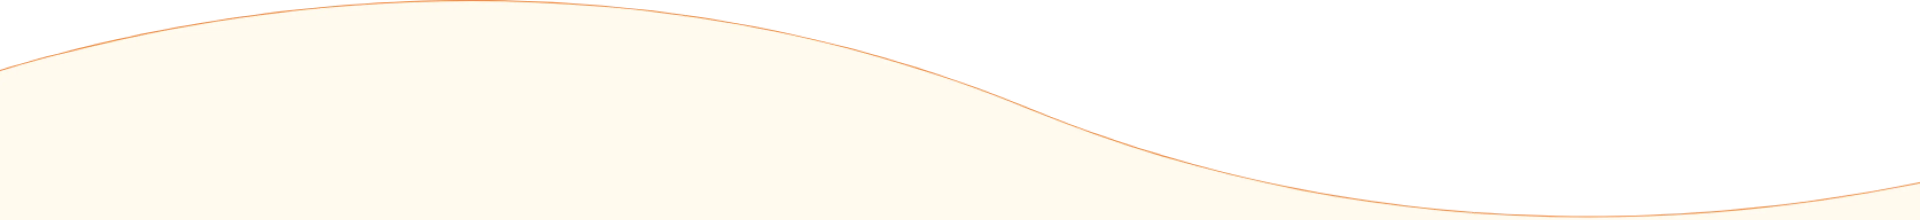
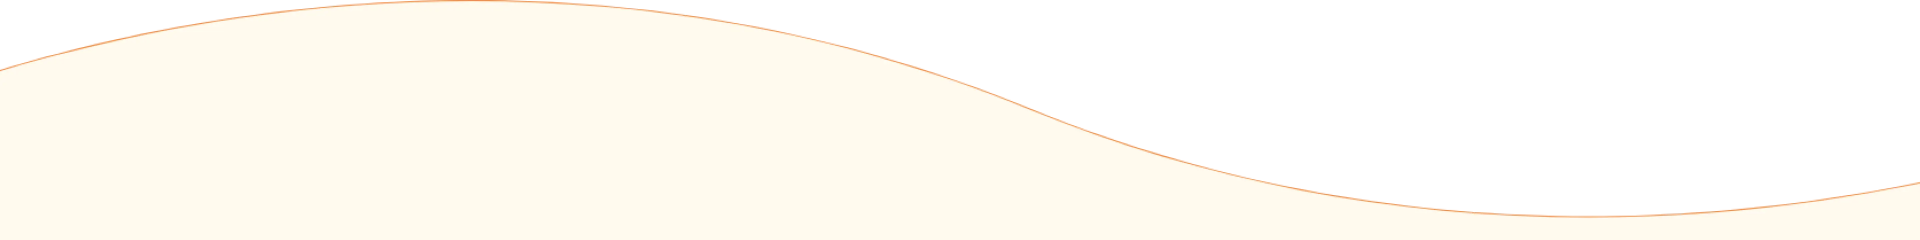
[fix] update animation

diff --git a/packages/frontend/src/styles/tailwind.css b/packages/frontend/src/styles/tailwind.css
@@ -133,10 +133,16 @@
     @apply flex w-full md:w-[calc(50%-2rem)] lg:w-[calc(33.33%-3rem)] m-2 md:m-4 lg:m-6;
   }
   .food-card {
-    @apply flex flex-col transition transform rounded-t-lg shadow-mat-1 hover:shadow-mat-3 hover:scale-105;
+    @apply flex flex-col transition transform rounded-t-lg shadow-mat-1 hover:shadow-mat-3 overflow-hidden;
+  }
+  .food-card__top{
+    @apply overflow-hidden;
   }
   .food-card__featured-image {
-    @apply flex flex-col w-full;
+    @apply flex flex-col w-full transition-transform duration-300;
+  }
+  .food-card:hover .food-card__featured-image{
+    @apply scale-105;
   }
 
   .food-card__bottom {
@@ -215,24 +221,27 @@
     position: absolute;
     top: 0px;
     width: 100%;
-    height: 11.458vw;
+    height: 12.5vw;
     background-image: url('../assets/images/footer-bg_top.webp');
     background-repeat: no-repeat;
     z-index: -1;
-    background-size: 100% auto;
+    background-size: contain;
     background-position: top;
   }
   .footer-main::after{
     content: '';
     position: absolute;
     background-color: #fffaee;
-    height: calc(100% - 11.458vw);
-    top: 11.458vw;
+    height: calc(100% - 12vw);
+    top: calc(12vw);
     z-index: -1;
     width: 100%;
   }
-  .footer-main__wrapper {
-    @apply flex flex-row flex-wrap justify-between px-4 pt-[11.458vw];
+  .footer-main__inner{
+    @apply flex flex-row flex-wrap pt-[12.5vw];
+  }
+  .footer-main__menu {
+    @apply w-full flex flex-wrap flex-col gap-y-4 lg:flex-row lg:justify-between;
   }
 
   .menu-item-group__title {

diff --git a/packages/frontend/src/layouts/footer/Footer.tsx b/packages/frontend/src/layouts/footer/Footer.tsx
@@ -1,20 +1,19 @@
 import Image from 'next/image';
 import Link from 'next/link';
-import React from 'react';
 import logo from '@/assets/images/logo.webp';
 
 const Footer = ({ className }: FooterProps) => {
   return (
     <footer className={`${className ?? ''} footer-main`}>
-      <div className='container mx-auto'>
-        <ul className='footer-main__wrapper'>
-          <li>
-            <div className='footer-main__logo'>
+      <div className='footer-main__inner container mx-auto '>
+        <ul className='footer-main__menu'>
+          <li className='menu-item-group'>
+            <Link className='footer-main__logo' href={'/'}>
               {logo && <Image src={logo} alt='Logo' width={48} />}
               <p className='font-light'>
                 Bất cứ nơi nào, bất cứ lúc nào, tận hưởng thời gian mua sắm của bạn{' '}
               </p>
-            </div>
+            </Link>
           </li>
           <li className='menu-item-group'>
             <div className='footer-main__information'>

diff --git a/packages/frontend/src/styles/globals.css b/packages/frontend/src/styles/globals.css
@@ -1,4 +1,25 @@
 @import 'tailwind.css';
-.slick-slide > div {
-  margin: 1rem 1rem;
+.swiper-button-prev,.swiper-button-next{
+  background-color: rgba(249, 188, 45, 0.7);
+  border-radius: 99vw;
+  padding: 2em;
+  z-index: 2;
+  transition: all 0.5s ease;
+  transform: scale(1);
+}
+.swiper-button-prev:hover,.swiper-button-next:hover{
+  background-color: rgb(249, 188, 45,1);
+  transform: scale(1.1);
+}
+/* .swiper-button-prev:hover::after,.swiper-button-next:hover::after{
+  color: rgba(255,255,255, 1);
+} */
+.swiper-button-prev::after,.swiper-button-next::after{
+  color: rgba(255,255,255, 1);
+}
+.swiper-button-prev{
+  left: 0;
+}
+.swiper-button-next{
+  right: 0;
 }
